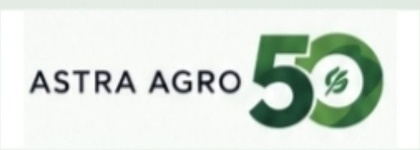
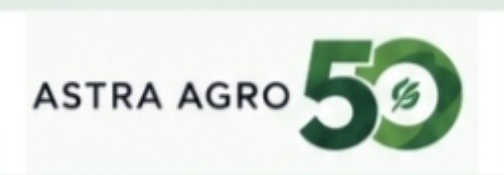
Add files via upload

diff --git a/index.html b/index.html
@@ -636,63 +636,161 @@ body,html{padding-bottom:0!important}
 
 
 
-/* ADRIANA v20 — PREMIUM HEADER FINAL / VISUAL ONLY */
+/* =========================================================
+   ADRIANA v20 — AMIRA-STYLE CORPORATE HEADER
+   VISUAL ONLY — JavaScript/data logic untouched
+   ========================================================= */
 .astraHead{display:none!important}
+
 .v3Hero{
- position:relative!important;height:225px!important;margin:-1px -26px 0!important;
- overflow:hidden!important;border-radius:0 0 24px 24px!important;background:#dcece2!important
+  position:relative!important;
+  height:236px!important;
+  margin:-1px -26px 0!important;
+  overflow:hidden!important;
+  border-radius:0 0 22px 22px!important;
+  background:#f7faf8!important;
+  padding:0!important;
 }
-.v3HeroBg{
- position:absolute!important;inset:0!important;
- background-image:
- linear-gradient(90deg,rgba(246,252,248,.15),rgba(246,252,248,.03) 48%,rgba(3,50,32,.10)),
- linear-gradient(180deg,rgba(246,252,248,.08),rgba(3,50,32,.48)),
- url("adriana-header.jpg")!important;
- background-size:cover!important;background-position:center center!important;
- filter:saturate(1.02)!important
+
+/* Dark-green corporate strip, matching AMIRA's visual language */
+.v3Hero:before{
+  content:""!important;
+  position:absolute!important;
+  left:0!important;right:0!important;top:0!important;
+  height:14px!important;
+  background:#0d4b37!important;
+  z-index:50!important;
 }
-.v3HeroBg:after{content:""!important;position:absolute!important;inset:0!important;
- background:linear-gradient(90deg,rgba(255,255,255,.08),transparent 45%,rgba(0,35,22,.08))!important}
-.v3HeroTop{position:relative!important;z-index:30!important;width:100%!important;height:100%!important;
- padding:0!important;display:block!important}
-.v3BrandBlock{
- position:absolute!important;right:14px!important;top:12px!important;left:auto!important;
- display:flex!important;align-items:center!important;gap:7px!important;
- padding:6px 10px 6px 6px!important;border:1px solid rgba(255,255,255,.82)!important;
- border-radius:13px!important;background:rgba(255,255,255,.94)!important;
- box-shadow:0 7px 22px rgba(10,54,37,.16)!important;backdrop-filter:blur(7px)!important
+
+/* White identity bar */
+.v3HeroTop{
+  position:absolute!important;
+  left:0!important;right:0!important;top:14px!important;
+  height:78px!important;
+  z-index:40!important;
+  padding:0 14px!important;
+  display:flex!important;
+  align-items:center!important;
+  justify-content:space-between!important;
+  background:rgba(255,255,255,.98)!important;
+  border-bottom:1px solid rgba(20,72,51,.10)!important;
 }
-.v3AstraLogo{width:42px!important;height:42px!important;object-fit:contain!important;
- content:url("astra-logo-header.jpg")!important}
-.v3AstraText b{display:block!important;color:#15533a!important;font-size:9px!important;line-height:1.02!important}
-.v3AstraText small{display:block!important;margin-top:2px!important;color:#65786f!important;font-size:6.5px!important}
-.v3AAL50{
- display:block!important;position:absolute!important;right:14px!important;top:75px!important;
- width:148px!important;height:52px!important;object-fit:contain!important;padding:5px 8px!important;
- border-radius:11px!important;background:rgba(255,255,255,.94)!important;
- box-shadow:0 6px 18px rgba(10,54,37,.13)!important;z-index:31!important;
- content:url("astra-agro-50-header.jpg")!important
-}
-.v3User{display:none!important}
+
+/* ADRIANA on the left */
 .v3AdrianaLogo{
- position:absolute!important;z-index:20!important;left:20px!important;top:84px!important;
- width:250px!important;max-width:58vw!important;color:#075b3d!important;
- filter:drop-shadow(0 2px 1px rgba(255,255,255,.78)) drop-shadow(0 5px 10px rgba(0,42,28,.14))!important
+  position:relative!important;
+  left:auto!important;
+  top:auto!important;
+  width:205px!important;
+  max-width:52vw!important;
+  color:#075a3c!important;
+  filter:none!important;
+  margin-top:0!important;
 }
-.v3AdrianaLogo svg{display:block!important;width:100%!important;height:auto!important}
+.v3AdrianaLogo svg{
+  display:block!important;
+  width:100%!important;
+  height:auto!important;
+}
 .v3AdrianaLogo small{display:none!important}
+
+/* Astra on the right */
+.v3BrandBlock{
+  position:relative!important;
+  right:auto!important;
+  top:auto!important;
+  display:flex!important;
+  align-items:center!important;
+  gap:6px!important;
+  padding:0!important;
+  border:0!important;
+  border-radius:0!important;
+  background:transparent!important;
+  box-shadow:none!important;
+  backdrop-filter:none!important;
+}
+.v3AstraLogo{
+  width:54px!important;
+  height:54px!important;
+  object-fit:contain!important;
+  content:url("astra-logo-header.jpg")!important;
+}
+.v3AstraText{display:none!important}
+
+/* Astra Agro 50 directly below/right of Astra identity */
+.v3AAL50{
+  display:block!important;
+  position:absolute!important;
+  right:15px!important;
+  top:54px!important;
+  width:92px!important;
+  height:30px!important;
+  object-fit:contain!important;
+  padding:0!important;
+  border:0!important;
+  border-radius:0!important;
+  background:transparent!important;
+  box-shadow:none!important;
+  z-index:55!important;
+  content:url("astra-agro-50-header.jpg")!important;
+}
+.v3User,.v3Planting,.astra50Logo{display:none!important}
+
+/* Palm plantation strip */
+.v3HeroBg{
+  position:absolute!important;
+  left:0!important;right:0!important;bottom:0!important;
+  top:92px!important;
+  background-image:
+    linear-gradient(180deg,rgba(255,255,255,.04),rgba(0,52,34,.30)),
+    url("adriana-palm-header.jpg")!important;
+  background-size:cover!important;
+  background-position:center 52%!important;
+  filter:saturate(1.02)!important;
+}
+.v3HeroBg:after{
+  content:""!important;
+  position:absolute!important;
+  inset:0!important;
+  background:linear-gradient(90deg,rgba(0,50,32,.08),rgba(255,255,255,.02) 50%,rgba(0,50,32,.08))!important;
+}
+
+/* Make the controls sit cleanly after the complete header */
+.v3Hero + *{position:relative!important;z-index:60!important}
+
 @media(max-width:760px){
- .v3Hero{height:215px!important;margin:-1px -14px 0!important;border-radius:0 0 20px 20px!important}
- .v3BrandBlock{right:11px!important;top:10px!important;padding:5px 8px 5px 5px!important}
- .v3AstraLogo{width:38px!important;height:38px!important}
- .v3AstraText b{font-size:8px!important}.v3AstraText small{font-size:6px!important}
- .v3AAL50{right:11px!important;top:68px!important;width:132px!important;height:46px!important}
- .v3AdrianaLogo{left:13px!important;top:80px!important;width:205px!important;max-width:55vw!important}
+  .v3Hero{
+    height:224px!important;
+    margin:-1px -14px 0!important;
+    border-radius:0 0 19px 19px!important;
+  }
+  .v3HeroTop{
+    top:12px!important;
+    height:73px!important;
+    padding:0 11px!important;
+  }
+  .v3AdrianaLogo{
+    width:170px!important;
+    max-width:53vw!important;
+  }
+  .v3AstraLogo{
+    width:46px!important;
+    height:46px!important;
+  }
+  .v3AAL50{
+    right:11px!important;
+    top:51px!important;
+    width:82px!important;
+    height:27px!important;
+  }
+  .v3HeroBg{top:85px!important}
 }
 @media(max-width:480px){
- .v3Hero{height:210px!important}.v3BrandBlock{right:9px!important;top:9px!important}
- .v3AAL50{right:9px!important;top:65px!important;width:124px!important;height:43px!important}
- .v3AdrianaLogo{left:12px!important;top:80px!important;width:185px!important}
+  .v3Hero{height:218px!important}
+  .v3AdrianaLogo{width:158px!important}
+  .v3AstraLogo{width:43px!important;height:43px!important}
+  .v3AAL50{right:9px!important;top:49px!important;width:76px!important;height:25px!important}
+  .v3HeroBg{top:82px!important}
 }
 
 </style>
